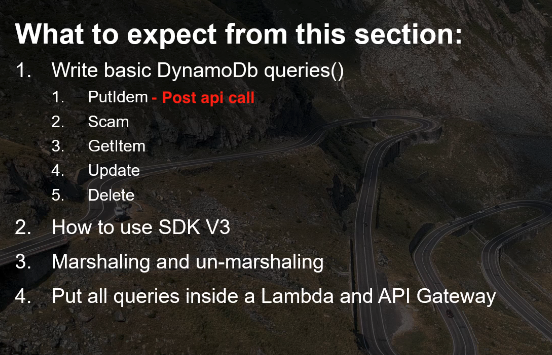
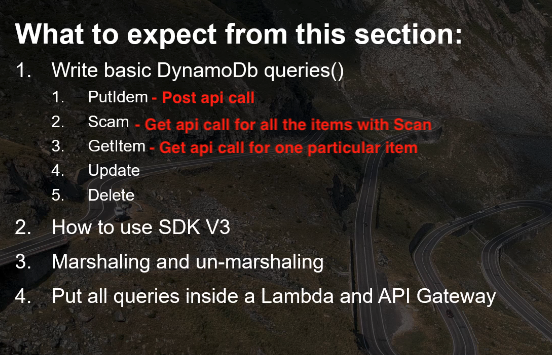
scan opeartion to list items

Changed region(s): [[0.2464, 0.3099, 0.8007, 0.3718], [0.2772, 0.4028, 0.7699, 0.4338]]

diff --git a/cdkAppFromScratch/src/services/spacesApi/handler.ts b/cdkAppFromScratch/src/services/spacesApi/handler.ts
@@ -2,6 +2,7 @@
 import { DynamoDBClient } from "@aws-sdk/client-dynamodb";
 import { APIGatewayProxyEvent, APIGatewayProxyResult, Context } from "aws-lambda";
 import { postSpaces } from "./PostSpaces";
+import { getSpaces } from "./GetSpaces";
 
 // note: Very import thing is that when we are working with AWS DynamoDB is that the
 // DynamoDB Client should be initialize in outer scope of http methods as a good practice
@@ -18,12 +19,14 @@ async function handler(event: APIGatewayProxyEvent, context: Context): Promise<A
   try {
     switch (event.httpMethod) {
       case "GET":
-        message = "Hello from GET!";
+        // message = "Hello from GET!";
+        const getResponse = getSpaces(event, dynamoDBClient);
+        return getResponse;
         break;
       case "POST":
         // message = "Hello from POST!";
-        const response = postSpaces(event, dynamoDBClient);
-        return response;
+        const postResponse = postSpaces(event, dynamoDBClient);
+        return postResponse;
 
       default:
         break;

diff --git a/cdkAppFromScratch/test/launcher.ts b/cdkAppFromScratch/test/launcher.ts
@@ -1,15 +1,27 @@
 // import { handler } from "../src/services/hello";
 import { handler } from "../src/services/spacesApi/handler";
 
-// note: the vs code debugger will execute this file & this file must be selecting while launching debugger
-// calling these functions in project modules to debug using vs code debugger
+// note: the vs code debugger will execute this file & this 'launcher.ts' file
+// must be selected while launching vscode debugger.
+// Calling these functions in our project modules to debug here.
+
+// handler(
+//   // post api call
+//   {
+//     httpMethod: "POST",
+//     body: JSON.stringify({
+//       location: "San Francisco city",
+//     }),
+//   } as any,
+//   {} as any
+// );
+
 handler(
-  // post api call
   {
-    httpMethod: "POST",
-    body: JSON.stringify({
-      location: "New York city",
-    }),
+    httpMethod: "GET",
+    // body: JSON.stringify({
+    //   location: "San Francisco city",
+    // }),
   } as any,
   {} as any
 );

diff --git a/cdkAppFromScratch/src/services/spacesApi/PostSpaces.ts b/cdkAppFromScratch/src/services/spacesApi/PostSpaces.ts
@@ -11,11 +11,10 @@ interface SpaceEntry {
 
 // http post api
 async function postSpaces(event: APIGatewayProxyEvent, dynamoDBClient: DynamoDBClient): Promise<APIGatewayProxyResult> {
-  // note: when creating an entry into dynamodb, we need to pass it id since the db is configure that way
+  // note: when creating an entry into dynamodb, we need to pass it 'id' since the db is configure that way
   const randomId = v4;
 
-  // note: we will get our data inside of the 'event'
-  // response body obj from handler.ts
+  // note: we will get our 'request data obj' inside of the 'event'
   const item: SpaceEntry = JSON.parse(event.body);
   item.id = randomId();
 
@@ -42,7 +41,7 @@ async function postSpaces(event: APIGatewayProxyEvent, dynamoDBClient: DynamoDBC
 
   return {
     statusCode: 201,
-    body: JSON.stringify({ id: item.id }),
+    body: JSON.stringify({ id: item.id, location: item.location }),
   };
 }
 

diff --git a/cdkAppFromScratch/src/services/spacesApi/GetSpaces.ts b/cdkAppFromScratch/src/services/spacesApi/GetSpaces.ts
@@ -1,0 +1,29 @@
+import { DynamoDBClient, ScanCommand } from "@aws-sdk/client-dynamodb";
+import { APIGatewayProxyEvent, APIGatewayProxyResult } from "aws-lambda";
+
+interface SpaceEntry {
+  id: string;
+  location: string;
+  name: string;
+  photoUrl?: string;
+}
+
+// http Get api for list of items
+async function getSpaces(event: APIGatewayProxyEvent, dynamoDBClient: DynamoDBClient): Promise<APIGatewayProxyResult> {
+  const result = await dynamoDBClient.send(
+    // 'ScanCommand' - get request api call to return all the items
+    new ScanCommand({
+      // db table
+      TableName: process.env.TABLE_NAME,
+    })
+  );
+
+  console.log(result.Items);
+
+  return {
+    statusCode: 200,
+    body: JSON.stringify(result.Items),
+  };
+}
+
+export { getSpaces };

diff --git a/cdkAppFromScratch/src/stacks/LambdaStack.ts b/cdkAppFromScratch/src/stacks/LambdaStack.ts
@@ -46,7 +46,7 @@ export class LambdaStack extends Stack {
     spacesLambda.addToRolePolicy(
       new PolicyStatement({
         effect: Effect.ALLOW,
-        // data from spaces db table
+        // spaces table in dynamoDB
         resources: [props.spacesTable.tableArn],
         // actions that this lambda can take on this spaces table
         actions: ["dynamodb:PutItem"], // post api call
